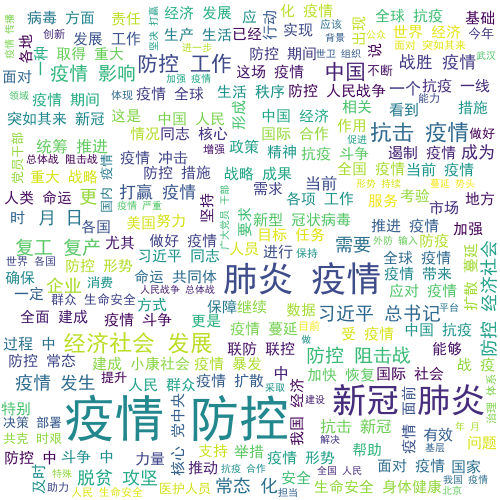
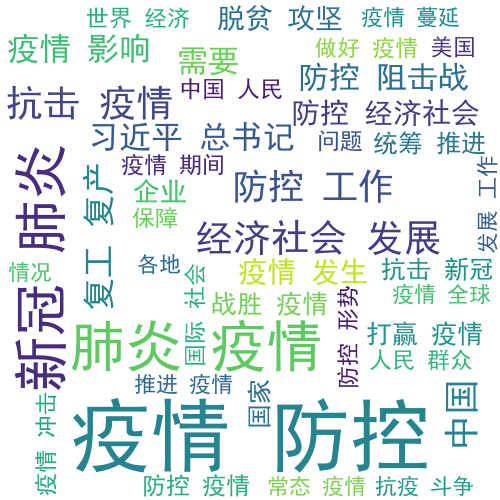
对停用词进行了更新，重新绘制了一份词云

diff --git a/MoqiNLP/SeparateWords/DrawWordCloud.py b/MoqiNLP/SeparateWords/DrawWordCloud.py
@@ -18,9 +18,9 @@ wc = WordCloud(
         # 设置背景高
         height=500,
         # 最大字体
-        max_font_size=50,
+        max_font_size=80,
         # 最小字体
-        min_font_size=10,
+        min_font_size=20,
         mode='RGBA'
         #colormap='pink'
         )
